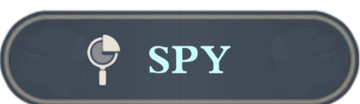
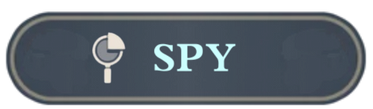
fixed buttons

Changed region(s): [[0.0, 0.0865, 1.0, 1.0], [0.3972, 0.375, 0.6417, 0.7212], [0.2444, 0.2885, 0.3361, 0.8365]]

diff --git a/teyvatdle_app/templates/classic_mode.html b/teyvatdle_app/templates/classic_mode.html
@@ -13,9 +13,9 @@
     
     <form autocomplete="off" class="flex w-[300px] items-center relative inline-block"id="guess-form">
         <div class="autocomplete w-[300px]">
-            <input id="guess" style="background-image: url(&quot;/static/images/input.png&quot;); background-size: 300px 58px;" class="bg-transparent bg-no-repeat outline-none text-white w-[300px] pl-[25px] p-[18px]" type="text" name="guess-character" placeholder="Character">
+            <input id="guess" style="background-image: url(&quot;/static/images/input.png&quot;); background-size: 340px 65px;" class="bg-transparent bg-center bg-no-repeat outline-none text-white w-[300px] pl-[25px] p-[18px]" type="text" name="guess-character" placeholder="Character">
         </div>
-        <input id="submit" value='' style="background-image: url(&quot;/static/images/buttons/submit_button.png&quot;); background-size: 40px 40px;" class="absolute hover:brightness-110 right-[10px] bg-no-repeat bg-center bg-transparent aspect-[1] h-[40px] ml-[10px] cursor-pointer" type="submit">
+        <input id="submit" value='' style="background-image: url(&quot;/static/images/buttons/submit_button.png&quot;); background-size: 40px 40px;" class="absolute hover:brightness-110 top-[11px] right-[8px] bg-no-repeat bg-center bg-transparent aspect-[1] h-[40px] ml-[10px] cursor-pointer" type="submit">
     </form>
     <div id="hints_container" class="flex text-white font-bold flex-row gap-x-[12px]">
         <div class="flex w-[75px] h-[75px] items-center justify-center border-b-4" id="guess_name">
@@ -40,7 +40,7 @@
     <div id="results">
         
     </div>
-    <div id="congrats_message" class="hidden flex flex-col items-center text-white bg-green-800 border-4 border-green-600 p-6 mt-4 rounded-lg">
+    <div id="congrats_message" class="hidden flex flex-col items-center text-white bg-green-800 border-4 border-green-600 p-6 mt-4 mb-8 rounded-lg">
         <div class="font-bold text-3xl text-center">Congrats!</div>
         <div id="tried-text" class="mb-[10px] text-lg text-center">You guessed it in 1 try!</div>
         <div class="streak cursor-pointer hover:scale-button flex pt-[25px] justify-center h-[60px] w-[60px] bg-center bg-cover bg-no-repeat" style="background-image: url(&quot;/static/images/streakIcon-WHITE.webp&quot;); background-size: 60px 60px;">
@@ -50,7 +50,7 @@
         <span class="pt-[10px]">Next character in:</span>
         <div class="font-bold text-3xl" id="timer"></div>
         <div class="font-bold text-xl text-center mt-4">Next Mode</div>
-        <button class="bg-no-repeat hover:scale-button cursor-pointer bg-center aspect-[173/50] w-[173px]" onclick="location.href='/voiceline'" style="background-image: url(&quot;/static/images/buttons/voiceline_button_short.png&quot;); background-size: 173px 50px;"></button>
+        <button class="bg-no-repeat hover:scale-button cursor-pointer bg-center aspect-[160/50] w-[173px]" onclick="location.href='/voiceline'" style="background-image: url(&quot;/static/images/buttons/voiceline_button_short.png&quot;); background-size: 170px 55px;"></button>
         <div class="font-bold text-xl text-center mt-4">Other Modes</div>
         <div class="flex gap-4 justify-center mt-2">
             <button class="gamemode-button bg-no-repeat w-[50px] h-[50px] cursor-pointer hover:scale-button" onclick="location.href='/voiceline'" style="background-image: url(&quot;/static/images/buttons/voiceline_1.png&quot;); background-size: 50px 50px;">

diff --git a/teyvatdle_app/templates/voiceline_mode.html b/teyvatdle_app/templates/voiceline_mode.html
@@ -20,14 +20,14 @@
     
     <form autocomplete="off" class="flex w-[300px] items-center relative inline-block"id="guess-form">
         <div class="autocomplete w-[300px]">
-            <input id="guess" style="background-image: url(&quot;/static/images/input.png&quot;); background-size: 300px 58px;" class="bg-transparent bg-no-repeat outline-none text-white w-[300px] pl-[25px] p-[18px]" type="text" name="guess-character" placeholder="Character">
+            <input id="guess" style="background-image: url(&quot;/static/images/input.png&quot;); background-size: 340px 65px;" class="bg-transparent bg-center bg-no-repeat outline-none text-white w-[300px] pl-[25px] p-[18px]" type="text" name="guess-character" placeholder="Character">
         </div>
-        <input id="submit" value='' style="background-image: url(&quot;/static/images/buttons/submit_button.png&quot;); background-size: 40px 40px;" class="absolute hover:brightness-110 right-[10px] bg-no-repeat bg-center bg-transparent aspect-[1] h-[40px] ml-[10px] cursor-pointer" type="submit">
+        <input id="submit" value='' style="background-image: url(&quot;/static/images/buttons/submit_button.png&quot;); background-size: 40px 40px;" class="absolute hover:brightness-110 top-[11px] right-[8px] bg-no-repeat bg-center bg-transparent aspect-[1] h-[40px] ml-[10px] cursor-pointer" type="submit">
     </form>
     <div id="results">
         
     </div>
-    <div id="congrats_message" class="hidden flex flex-col items-center text-white bg-green-800 border-4 border-green-600 p-6 mt-4 rounded-lg">
+    <div id="congrats_message" class="hidden flex flex-col items-center text-white bg-green-800 border-4 border-green-600 p-6 mt-4 mb-8 rounded-lg">
         <div class="font-bold text-3xl text-center">Congrats!</div>
         <div id="tried-text" class="mb-[10px] text-lg text-center">"You guessed it in 1 try!"</div>
         <div class="streak cursor-pointer hover:scale-button flex pt-[25px] justify-center h-[60px] w-[60px] bg-center bg-cover bg-no-repeat" style="background-image: url(&quot;/static/images/streakIcon-WHITE.webp&quot;); background-size: 60px 60px;">
@@ -37,7 +37,7 @@
         <span class="pt-[10px]">Next character in:</span>
         <div class="font-bold text-3xl" id="timer"></div>
         <div class="font-bold text-xl text-center mt-4">Next Mode</div>
-        <div class="bg-no-repeat hover:scale-button cursor-pointer bg-center aspect-[173/50] w-[173px]" onclick="location.href='/ability'" style="background-image: url(&quot;/static/images/buttons/ability_button_short.png&quot;); background-size: 173px 50px;"></div>
+        <div class="bg-no-repeat hover:scale-button cursor-pointer bg-center aspect-[160/50] w-[173px]" onclick="location.href='/ability'" style="background-image: url(&quot;/static/images/buttons/ability_button_short.png&quot;); background-size: 170px 55px;"></div>
         <div class="font-bold text-xl text-center mt-4">Other Modes</div>
         <div class="flex gap-4 justify-center mt-2">
             <div class="gamemode-button bg-no-repeat w-[50px] h-[50px] cursor-pointer hover:scale-button" onclick="location.href='/ability'" style="background-image: url(&quot;/static/images/buttons/ability_1.png&quot;); background-size: 50px 50px;">

diff --git a/teyvatdle_app/templates/ability_mode.html b/teyvatdle_app/templates/ability_mode.html
@@ -15,14 +15,14 @@
     
     <form autocomplete="off" class="flex w-[300px] items-center relative inline-block"id="guess-form">
         <div class="autocomplete w-[300px]">
-            <input id="guess" style="background-image: url(&quot;/static/images/input.png&quot;); background-size: 300px 58px;" class="bg-transparent bg-no-repeat outline-none text-white w-[300px] pl-[25px] p-[18px]" type="text" name="guess-character" placeholder="Character">
+            <input id="guess" style="background-image: url(&quot;/static/images/input.png&quot;); background-size: 340px 65px;" class="bg-transparent bg-center bg-no-repeat outline-none text-white w-[300px] pl-[25px] p-[18px]" type="text" name="guess-character" placeholder="Character">
         </div>
-        <input id="submit" value='' style="background-image: url(&quot;/static/images/buttons/submit_button.png&quot;); background-size: 40px 40px;" class="absolute hover:brightness-110 right-[10px] bg-no-repeat bg-center bg-transparent aspect-[1] h-[40px] ml-[10px] cursor-pointer" type="submit">
+        <input id="submit" value='' style="background-image: url(&quot;/static/images/buttons/submit_button.png&quot;); background-size: 40px 40px;" class="absolute hover:brightness-110 top-[11px] right-[8px] bg-no-repeat bg-center bg-transparent aspect-[1] h-[40px] ml-[10px] cursor-pointer" type="submit">
     </form>
     <div id="results">
         
     </div>
-    <div id="congrats_message" class="hidden flex flex-col items-center text-white bg-green-800 border-4 border-green-600 p-6 mt-4 rounded-lg">
+    <div id="congrats_message" class="hidden flex flex-col items-center text-white bg-green-800 border-4 border-green-600 p-6 mt-4 mb-8 rounded-lg">
         <div class="font-bold text-3xl text-center">Congrats!</div>
         <div id="tried-text" class="mb-[10px] text-lg text-center">"You guessed it in 1 try!"</div>
         <div class="streak cursor-pointer hover:scale-button flex pt-[25px] justify-center h-[60px] w-[60px] bg-center bg-cover bg-no-repeat" style="background-image: url(&quot;/static/images/streakIcon-WHITE.webp&quot;); background-size: 60px 60px;">
@@ -32,7 +32,7 @@
         <span class="pt-[10px]">Next character in:</span>
         <div class="font-bold text-3xl" id="timer"></div>
         <div class="font-bold text-xl text-center mt-4">Next Mode</div>
-        <div class="bg-no-repeat hover:scale-button cursor-pointer bg-center aspect-[173/50] w-[173px]" onclick="location.href='/spy'" style="background-image: url(&quot;/static/images/buttons/spy_button_short.png&quot;); background-size: 173px 50px;"></div>
+        <div class="bg-no-repeat hover:scale-button cursor-pointer bg-center aspect-[160/50] w-[173px]" onclick="location.href='/spy'" style="background-image: url(&quot;/static/images/buttons/spy_button_short.png&quot;); background-size: 170px 55px;"></div>
         <div class="font-bold text-xl text-center mt-4">Other Modes</div>
         <div class="flex gap-4 justify-center mt-2">
             <div class="gamemode-button bg-no-repeat w-[50px] h-[50px] cursor-pointer hover:scale-button" onclick="location.href='/classic'" style="background-image: url(&quot;/static/images/buttons/classic_1.png&quot;); background-size: 50px 50px;">

diff --git a/teyvatdle_app/templates/spy_mode.html b/teyvatdle_app/templates/spy_mode.html
@@ -15,15 +15,15 @@
     </div>
     <span id="show_character_data"></span>
     
-    <form autocomplete="off" class="flex w-[300px] items-center relative inline-block" id="guess-form">
+    <form autocomplete="off" class="flex w-[300px] items-center relative inline-block"id="guess-form">
         <div class="autocomplete w-[300px]">
-            <input id="guess" style="background-image: url(&quot;/static/images/input.png&quot;); background-size: 300px 58px;" class="bg-transparent bg-no-repeat outline-none text-white w-[300px] pl-[25px] p-[18px]" type="text" name="guess-character" placeholder="Character">
+            <input id="guess" style="background-image: url(&quot;/static/images/input.png&quot;); background-size: 340px 65px;" class="bg-transparent bg-center bg-no-repeat outline-none text-white w-[300px] pl-[25px] p-[18px]" type="text" name="guess-character" placeholder="Character">
         </div>
-        <input id="submit" value='' style="background-image: url(&quot;/static/images/buttons/submit_button.png&quot;); background-size: 40px 40px;" class="absolute hover:brightness-110 right-[10px] bg-no-repeat bg-center bg-transparent aspect-[1] h-[40px] ml-[10px] cursor-pointer" type="submit">
+        <input id="submit" value='' style="background-image: url(&quot;/static/images/buttons/submit_button.png&quot;); background-size: 40px 40px;" class="absolute hover:brightness-110 top-[11px] right-[8px] bg-no-repeat bg-center bg-transparent aspect-[1] h-[40px] ml-[10px] cursor-pointer" type="submit">
     </form>
     <div id="results"></div>
     
-    <div id="congrats_message" class="hidden flex flex-col items-center text-white bg-green-800 border-4 border-green-600 p-6 mt-4 rounded-lg">
+    <div id="congrats_message" class="hidden flex flex-col items-center text-white bg-green-800 border-4 border-green-600 p-6 mt-4 mb-8 rounded-lg">
         <div class="font-bold text-3xl text-center">Congrats!</div>
         <div id="tried-text" class="mb-[10px] text-lg text-center">"You guessed it in 1 try!"</div>
         <div class="streak cursor-pointer hover:scale-button flex pt-[25px] justify-center h-[60px] w-[60px] bg-center bg-cover bg-no-repeat" style="background-image: url(&quot;/static/images/streakIcon-WHITE.webp&quot;); background-size: 60px 60px;">
@@ -33,7 +33,7 @@
         <span class="pt-[10px]">Next character in:</span>
         <div class="font-bold text-3xl" id="timer"></div>
         <div class="font-bold text-xl text-center mt-4">Next Mode</div>
-        <div class="bg-no-repeat hover:scale-button cursor-pointer bg-center aspect-[173/50] w-[173px]" onclick="location.href='/classic'" style="background-image: url(&quot;/static/images/buttons/classic_button_short.png&quot;); background-size: 173px 50px;"></div>
+        <div class="bg-no-repeat hover:scale-button cursor-pointer bg-center aspect-[160/50] w-[173px]" onclick="location.href='/classic'" style="background-image: url(&quot;/static/images/buttons/classic_button_short.png&quot;); background-size: 170px 55px;"></div>
         
         <div class="font-bold text-xl text-center mt-4">Other Modes</div>
         <div class="flex gap-4 justify-center mt-2">

diff --git a/teyvatdle_app/templates/home.html b/teyvatdle_app/templates/home.html
@@ -1,18 +1,18 @@
 {% extends "base.html" %}
 {% block gamemode %}
 <div class="flex-col ">
-    <div class="pt-[50px] flex flex-col gap-y-[12px]">
+    <div class="pt-[30px] flex flex-col gap-y-[12px]">
         <a class="flex justify-center" href="/classic">
-            <img src="{{url_for('static', filename='/images/buttons/classic_button.png')}}" class="aspect-[580/116] h-[90px] hover:scale-button">
+            <img src="{{url_for('static', filename='/images/buttons/classic_button.png')}}" class="drop-shadow-2xl aspect-[610/116] h-[95px] hover:scale-button">
         </a>
         <a class="flex justify-center" href="/voiceline">
-            <img src="{{url_for('static', filename='/images/buttons/voiceline_button.png')}}" class="aspect-[580/116] h-[90px] hover:scale-button">
+            <img src="{{url_for('static', filename='/images/buttons/voiceline_button.png')}}" class="aspect-[610/116] h-[95px] hover:scale-button">
         </a>
         <a class="flex justify-center" href="/ability">
-            <img src="{{url_for('static', filename='/images/buttons/ability_button.png')}}" class="aspect-[580/116] h-[90px] hover:scale-button">
+            <img src="{{url_for('static', filename='/images/buttons/ability_button.png')}}" class="aspect-[610/116] h-[95px] hover:scale-button">
         </a>
         <a class="flex justify-center" href="/spy">
-            <img src="{{url_for('static', filename='/images/buttons/spy_button.png')}}" class="aspect-[580/116] h-[90px] hover:scale-button">
+            <img src="{{url_for('static', filename='/images/buttons/spy_button.png')}}" class="aspect-[610/116] h-[95px] hover:scale-button">
         </a>
     </div>
 </div>

diff --git a/teyvatdle_app/static/scripts/auto-complete.js b/teyvatdle_app/static/scripts/auto-complete.js
@@ -13,7 +13,7 @@ export function autocomplete(inp, arr) {
         /*create a DIV element that will contain the items (values):*/
         a = document.createElement("DIV");
         a.setAttribute("id", this.id + "autocomplete-list");
-        a.setAttribute("class", "autocomplete-items bg-[#f1e8e0] z-99 absolute w-[280px] left-1/2 -translate-x-1/2 max-h-[300px] overflow-y-scroll");
+        a.setAttribute("class", "autocomplete-items bg-[#f1e8e0] z-99 absolute w-[270px] left-1/2 -translate-x-1/2 max-h-[300px] overflow-y-scroll");
         /*append the DIV element as a child of the autocomplete container:*/
         this.parentNode.appendChild(a);
         /*for each item in the array...*/
